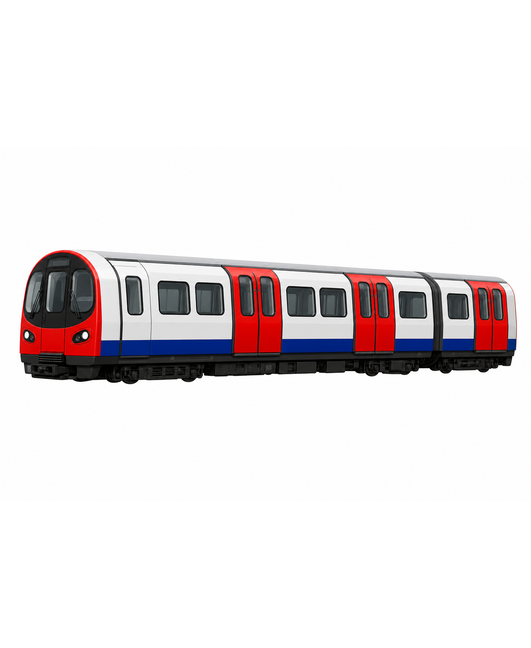
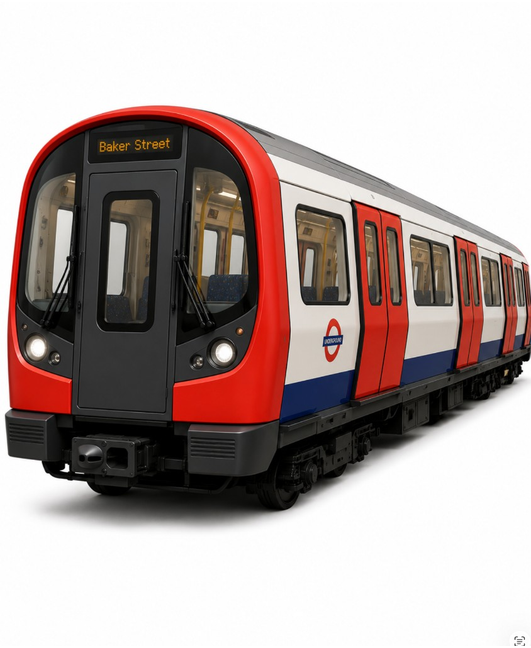
Add Day centre tube illustration and wire into community transport catalog.

diff --git a/src/lib/cards/day-centre-general-cards.ts b/src/lib/cards/day-centre-general-cards.ts
@@ -30,6 +30,7 @@ export const DAY_CENTRE_GENERAL_CARD_FILES = [
   "bus-stop.png",
   "bus.png",
   "cab.png",
+  "tube.png",
   "cafe.png",
   "community-centre.png",
   "cross-road.png",
@@ -132,6 +133,7 @@ export const DAY_CENTRE_GENERAL_SEQUENCE: readonly DayCentreGeneralStep[] = [
   { id: "dcg-hair-care", slug: "hair-care", title: "Hair care" },
   // Community access
   { id: "dcg-bus", slug: "bus", title: "Bus" },
+  { id: "dcg-tube", slug: "tube", title: "Tube" },
   { id: "dcg-cab", slug: "cab", title: "Cab" },
   { id: "dcg-walk", slug: "walk", title: "Walking" },
   { id: "dcg-cross-road", slug: "cross-road", title: "Crossing road" },

diff --git a/src/lib/cards/day-centre-library-groups.ts b/src/lib/cards/day-centre-library-groups.ts
@@ -87,6 +87,7 @@ const SLUG_GROUP: Record<string, DayCentreLibraryGroup> = {
   "hair-care": "personal-care",
   // Community
   bus: "community",
+  tube: "community",
   cab: "community",
   walk: "community",
   "cross-road": "community",

diff --git a/src/lib/cards/day-centre-folder-groups.ts b/src/lib/cards/day-centre-folder-groups.ts
@@ -42,6 +42,7 @@ const COMMUNITY_SLUGS = new Set([
   "queue",
   "restaurant",
   "bus",
+  "tube",
   "bus-stop",
   "cross-road",
   "wait",
